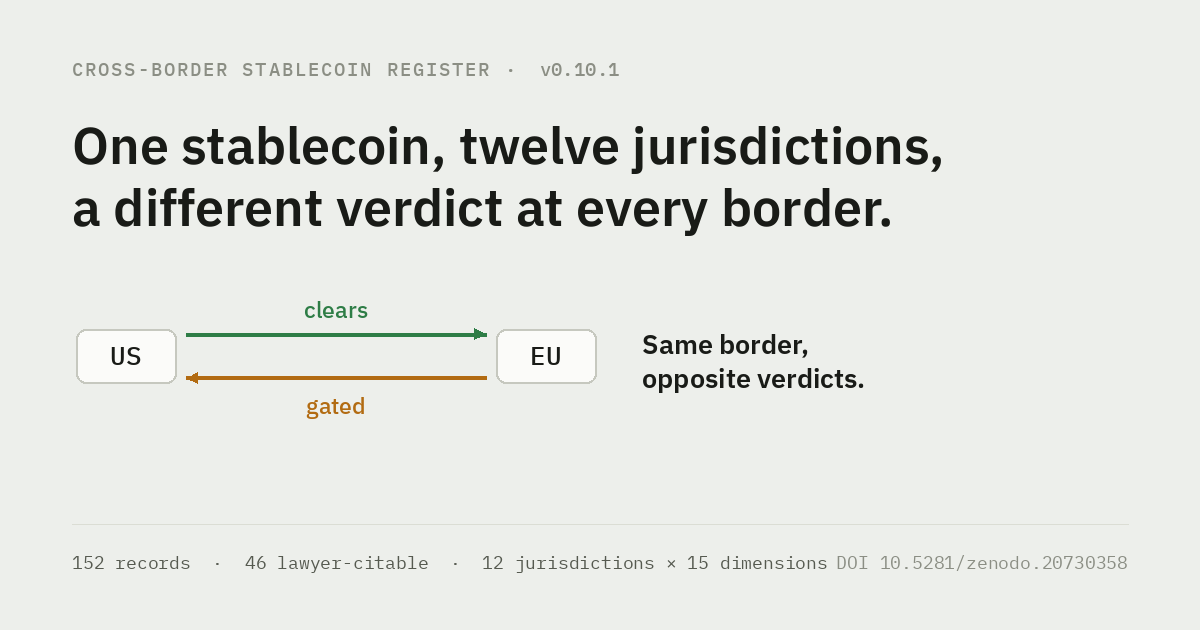
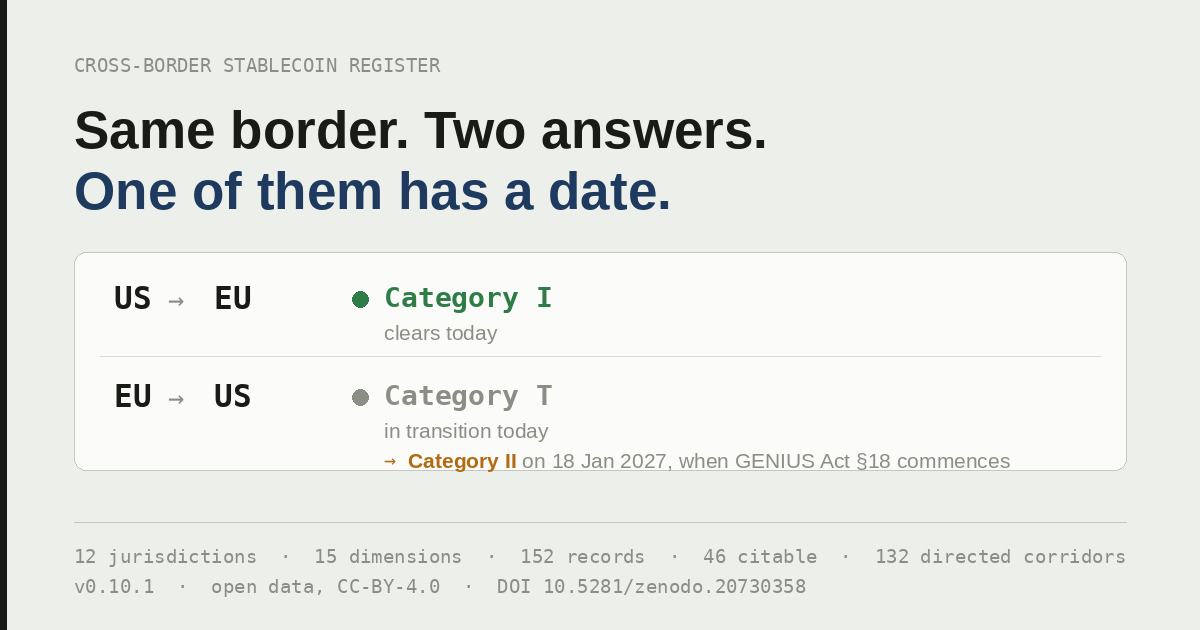
update

diff --git a/index.html b/index.html
@@ -22,7 +22,7 @@
     <meta property="og:image:type" content="image/png" />
     <meta property="og:image:width" content="1200" />
     <meta property="og:image:height" content="630" />
-    <meta property="og:image:alt" content="US to EU clears; EU to US is gated. Same border, opposite verdicts." />
+    <meta property="og:image:alt" content="US to EU clears. EU to US is in transition and hardens to Category II on 18 January 2027. Same border, two answers." />
     <meta property="og:locale" content="en" />
     <meta property="og:locale:alternate" content="zh_CN" />
     <link rel="canonical" href="https://yunjiefanresearch-hub.github.io/cbsr-mapper/" />
@@ -30,7 +30,7 @@
     <meta name="twitter:title" content="One stablecoin, twelve jurisdictions, a different verdict at every border." />
     <meta name="twitter:description" content="The interactive map: all 132 directed corridors across twelve jurisdictions, recomputed from primary-law records." />
     <meta name="twitter:image" content="https://yunjiefanresearch-hub.github.io/cbsr-mapper/og-card.png" />
-    <meta name="twitter:image:alt" content="US to EU clears; EU to US is gated. Same border, opposite verdicts." />
+    <meta name="twitter:image:alt" content="US to EU clears. EU to US is in transition and hardens to Category II on 18 January 2027. Same border, two answers." />
 
     <link rel="preconnect" href="https://fonts.googleapis.com" />
     <link rel="preconnect" href="https://fonts.gstatic.com" crossorigin />